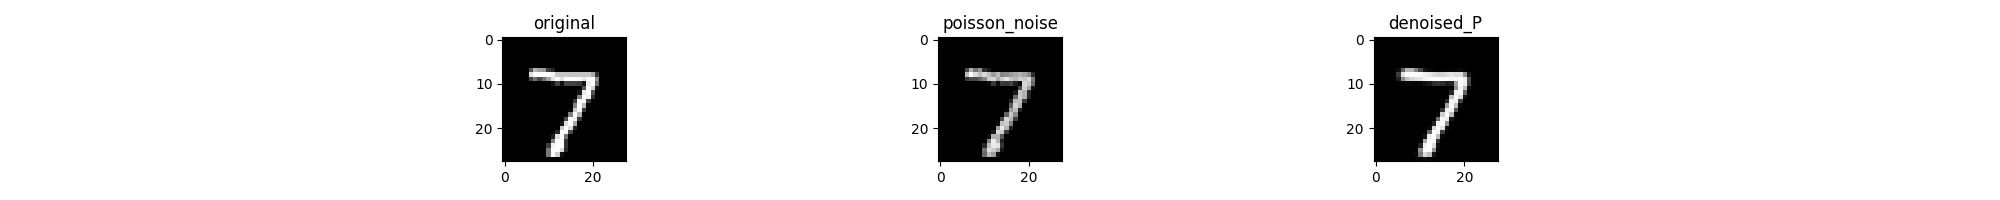
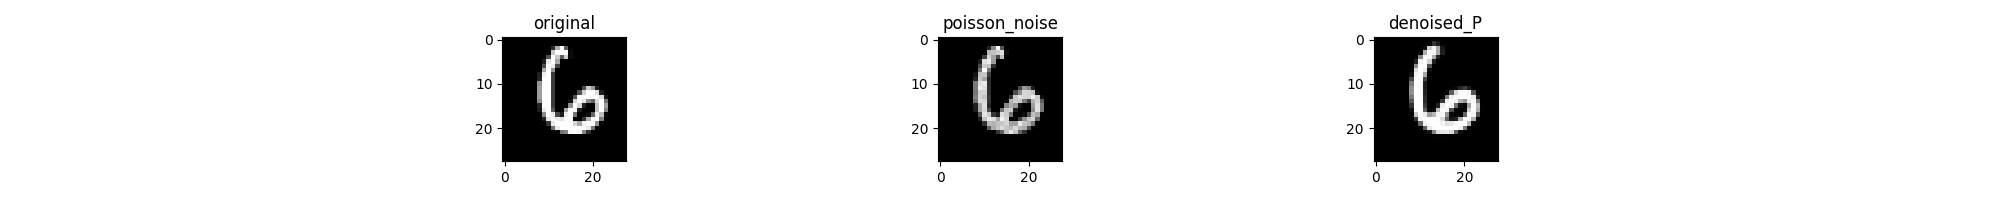
add mse function, numerical comparison between clean, noisy and denoised data

Changed region(s): [[0.682, 0.21, 0.744, 0.78], [0.248, 0.24, 0.31, 0.78], [0.465, 0.24, 0.527, 0.78]]

diff --git a/autoencoder.py b/autoencoder.py
@@ -1,4 +1,3 @@
-
 from tensorflow import keras
 from tensorflow.keras import layers
 from tensorflow.keras.datasets import mnist
@@ -8,7 +7,6 @@ from tensorflow.keras.models import load_model
 from tensorflow.keras.callbacks import TensorBoard
 
 import noisy as ns
-
 
 # Loading Dataset
 (x_train, _), (x_test, _) = mnist.load_data()
@@ -30,7 +28,6 @@ x_test_noisy = x_test + noise_factor * np.random.normal(loc=0.0, scale=1.0, size
 x_train_noisy = np.clip(x_train_noisy, 0., 1.)
 x_test_noisy = np.clip(x_test_noisy, 0., 1.)
 
-
 # Show the noisy digits
 n = 10
 plt.figure(figsize=(20, 2))
@@ -42,7 +39,6 @@ for i in range(1, n + 1):
     ax.get_yaxis().set_visible(False)
 # plt.show()
 plt.savefig('noisy_digits.png')
-
 
 #  Loading Model
 input_img = keras.Input(shape=(28, 28, 1))
@@ -63,7 +59,6 @@ decoded = layers.Conv2D(1, (3, 3), activation='sigmoid', padding='same')(x)
 autoencoder = keras.Model(input_img, decoded)
 autoencoder.compile(optimizer='adam', loss='binary_crossentropy')
 
-
 # Starting the training of the autoencoder
 
 """ training_history = autoencoder.fit(x_train_noisy, x_train,
@@ -73,57 +68,80 @@ autoencoder.compile(optimizer='adam', loss='binary_crossentropy')
                 validation_data=(x_test_noisy, x_test))
                 #callbacks=[TensorBoard(log_dir='/tmp/tb', histogram_freq=0, write_graph=False)]) """
 
-#autoencoder.save('autoencoder.h5')
+# autoencoder.save('autoencoder.h5')
 
 x_test_noise_poisson = np.copy(x_test)
 for i in range(len(x_test_noise_poisson)):
-    img_noise = ns.noisy('poisson',x_test[i])
+    img_noise = ns.noisy('poisson', x_test[i])
     x_test_noise_poisson[i] = img_noise
-
 
 x_test_noise_speckle = np.copy(x_test)
 for i in range(len(x_test_noise_speckle)):
-    img_noise = ns.noisy('speckle',x_test[i])
+    img_noise = ns.noisy('speckle', x_test[i])
     x_test_noise_speckle[i] = img_noise
-
 
 x_test_noise_SP = np.copy(x_test)
 for i in range(len(x_test_noise_SP)):
-    img_noise = ns.noisy('s&p',x_test[i])
+    img_noise = ns.noisy('s&p', x_test[i])
     x_test_noise_SP[i] = img_noise
 
-
 autoencoder.load_weights('autoencoder.h5')
+
+# gaussian noise
 test_data_denoised_G = autoencoder.predict(x_test_noisy)
-#print(np.shape(x_test_noisy))
-#print(np.shape(test_data_denoised_G))
+# print(np.shape(x_test_noisy))
+# print(np.shape(test_data_denoised_G))
 
 # poisson noise
-#img_poisson_noised = ns.noisy('poisson',x_test[0])
+# img_poisson_noised = ns.noisy('poisson',x_test[0])
 test_data_denoised_P = autoencoder.predict(x_test_noise_poisson)
-#print(np.shape(test_data_denoised_P))
+# print(np.shape(test_data_denoised_P))
 
-# s&p noise
-#img_sp_noised = ns.noisy('s&p',x_test[0])
-test_data_denoised_SP = autoencoder.predict(x_test_noise_SP)
-#print(np.shape(img_sp_noised))
-
-# speckle 
-#img_speckle_noised = ns.noisy('speckle',x_test[0])
+# speckle noise
+# img_speckle_noised = ns.noisy('speckle',x_test[0])
 test_data_denoised_S = autoencoder.predict(x_test_noise_speckle)
 
-idx = 0
+# s&p noise
+# img_sp_noised = ns.noisy('s&p',x_test[0])
+test_data_denoised_SP = autoencoder.predict(x_test_noise_SP)
+# print(np.shape(img_sp_noised))
 
+
+# We will calculate the mean squared error of the whole test set.
+# First we will calculate the mse between our clean data and the data with added noise.
+# Next we check how well our DAE (denoising autoencoder) denoised the data.
+
+def mse(data_clean, data_noisy, data_denoised):
+    noisy_clean_mse = np.square(np.subtract(data_clean, data_noisy)).mean()
+    denoised_clean_mse = np.square(np.subtract(data_denoised, data_clean)).mean()
+    if denoised_clean_mse < noisy_clean_mse:
+        percent_diff = (100 - ((denoised_clean_mse / noisy_clean_mse) * 100))
+        print(noisy_clean_mse, denoised_clean_mse)
+        print("DAE decreases the noise around {:.0f}%".format(percent_diff))
+    else:
+        percent_diff = (100 - ((noisy_clean_mse / denoised_clean_mse) * 100))
+        print(noisy_clean_mse, denoised_clean_mse)
+        # the noisy image is closer to the clean image than the DAE reconstructed image
+        print("DAE shows a deterioration in image reconstruction of about {:.0f}%".format(percent_diff))
+
+
+mse(x_test, x_test_noisy, test_data_denoised_G)
+mse(x_test, x_test_noise_poisson, test_data_denoised_P)
+mse(x_test, x_test_noise_speckle, test_data_denoised_S)
+mse(x_test, x_test_noise_SP, test_data_denoised_SP)
+
+
+idx = 88
 ################################
-plt.subplot(1,3,1)
+plt.subplot(1, 3, 1)
 plt.imshow(x_test[idx])
 plt.title('original')
 
-plt.subplot(1,3,2)
+plt.subplot(1, 3, 2)
 plt.imshow(x_test_noisy[idx])
 plt.title('gaussian_noise')
 
-plt.subplot(1,3,3)
+plt.subplot(1, 3, 3)
 plt.imshow(test_data_denoised_G[idx])
 plt.title('denoised_G')
 
@@ -132,15 +150,15 @@ plt.savefig('noise_denoised_G')
 #################################
 
 ##################################
-plt.subplot(1,3,1)
+plt.subplot(1, 3, 1)
 plt.imshow(x_test[idx])
 plt.title('original')
 
-plt.subplot(1,3,2)
+plt.subplot(1, 3, 2)
 plt.imshow(x_test_noise_poisson[idx])
 plt.title('poisson_noise')
 
-plt.subplot(1,3,3)
+plt.subplot(1, 3, 3)
 plt.imshow(test_data_denoised_P[idx])
 plt.title('denoised_P')
 
@@ -150,15 +168,15 @@ plt.savefig('noise_denoised_P')
 
 
 ######################################
-plt.subplot(1,3,1)
+plt.subplot(1, 3, 1)
 plt.imshow(x_test[idx])
 plt.title('original')
 
-plt.subplot(1,3,2)
+plt.subplot(1, 3, 2)
 plt.imshow(x_test_noise_speckle[idx])
 plt.title('speckle_noise')
 
-plt.subplot(1,3,3)
+plt.subplot(1, 3, 3)
 plt.imshow(test_data_denoised_S[idx])
 plt.title('denoised_S')
 
@@ -168,15 +186,15 @@ plt.savefig('noise_denoised_S')
 #######################################
 
 #######################################
-plt.subplot(1,3,1)
+plt.subplot(1, 3, 1)
 plt.imshow(x_test[idx])
 plt.title('original')
 
-plt.subplot(1,3,2)
+plt.subplot(1, 3, 2)
 plt.imshow(x_test_noise_SP[idx])
 plt.title('salt_pepper_noise')
 
-plt.subplot(1,3,3)
+plt.subplot(1, 3, 3)
 plt.imshow(test_data_denoised_SP[idx])
 plt.title('denoised_SP')
 
@@ -184,7 +202,3 @@ plt.tight_layout()
 plt.savefig('noise_denoised_SP')
 
 ########################################
-
-
-
-

diff --git a/noisy.py b/noisy.py
@@ -1,53 +1,47 @@
+
 import numpy as np
-import os
-import cv2
 import random
-def noisy(noise_typ,image):
 
 
-   if noise_typ == "gauss":
-      row,col,ch= image.shape
-      mean = 0
-      var = 0.1
-      sigma = var**0.5
-      gauss = np.random.normal(mean,sigma,(row,col,ch))
-      gauss = gauss.reshape(row,col,ch)
-      noisy = image + gauss
-      return noisy
+def noisy(noise_typ, image):
+    if noise_typ == "gauss":
+        row, col, ch = image.shape
+        mean = 0
+        var = 0.1
+        sigma = var ** 0.5
+        gauss = np.random.normal(mean, sigma, (row, col, ch))
+        gauss = gauss.reshape(row, col, ch)
+        noisy = image + gauss
+        return noisy
 
+    elif noise_typ == "poisson":
+        vals = len(np.unique(image))
+        vals = 2 ** np.ceil(np.log2(vals))
+        noisy = np.random.poisson(image * vals) / float(vals)
+        return noisy
 
+    elif noise_typ == "speckle":
+        row, col, ch = image.shape
+        gauss = np.random.randn(row, col, ch)
+        gauss = gauss.reshape(row, col, ch)
+        noisy = image + image * gauss
+        return noisy
 
+    elif noise_typ == "s&p":
+        row, col, ch = image.shape
+        s_vs_p = 0.5
+        amount = 0.4
+        out = np.copy(image)
+        # Salt mode
+        num_salt = np.ceil(amount * image.size * s_vs_p)
 
-   elif noise_typ == "poisson":
-      vals = len(np.unique(image))
-      vals = 2 ** np.ceil(np.log2(vals))
-      noisy = np.random.poisson(image * vals) / float(vals)
-      return noisy
+        coords = [np.random.randint(0, i, int(num_salt))
+                  for i in image.shape]
+        out[coords] = 1
+        # Pepper mode
+        num_pepper = np.ceil(amount * image.size * (1. - s_vs_p))
 
-
-   elif noise_typ =="speckle":
-      row,col,ch = image.shape
-      gauss = np.random.randn(row,col,ch)
-      gauss = gauss.reshape(row,col,ch)        
-      noisy = image + image * gauss
-      return noisy
-
-   elif noise_typ == "s&p":
-    row,col,ch = image.shape
-    s_vs_p = 0.5
-    amount = 0.4
-    out = np.copy(image)
-    # Salt mode
-    num_salt = np.ceil(amount * image.size * s_vs_p)
-   
-    coords = [np.random.randint(0, i, int(num_salt))
-            for i in image.shape]
-    out[coords] = 1
-    # Pepper mode
-    num_pepper = np.ceil(amount* image.size * (1. - s_vs_p))
-    
-    coords = [np.random.randint(0, i, int(num_pepper))
-            for i in image.shape]
-    out[coords] = 0
-    return out
-
+        coords = [np.random.randint(0, i, int(num_pepper))
+                  for i in image.shape]
+        out[coords] = 0
+        return out
